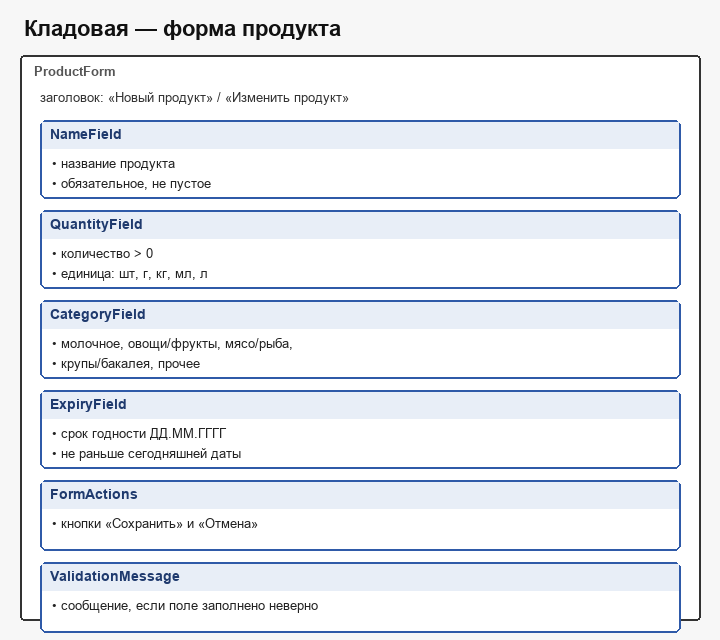
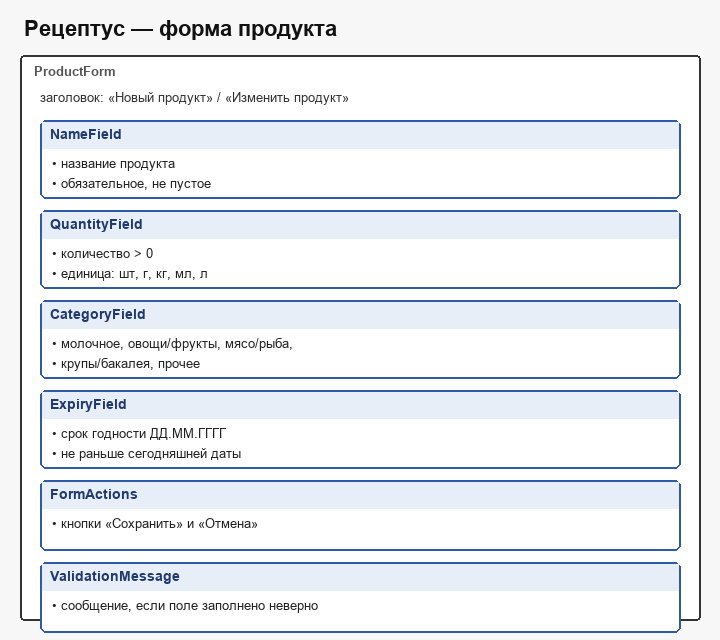
Переименование продукта в «Рецептус»

Changed region(s): [[0.2139, 0.0312, 0.4889, 0.0625], [0.0306, 0.0312, 0.1833, 0.0625]]

diff --git a/srs/srs.md b/srs/srs.md
@@ -1,6 +1,6 @@
 # Спецификация требований к ПО
 
-Для desktop-приложения «Кладовая»
+Для desktop-приложения «Рецептус»
 
 Версия 0.1
 
@@ -67,7 +67,7 @@
 
 ### 1.1 Назначение документа {#11-document-purpose}
 
-Настоящий документ — спецификация требований к программному обеспечению (SRS) desktop-приложения «Кладовая» версии 0.1. Документ фиксирует, **что** система должна делать для учёта продуктов в холодильнике, предложения рецептов из имеющихся продуктов и снижения пищевых отходов. Способ реализации в этом документе не задаётся.
+Настоящий документ — спецификация требований к программному обеспечению (SRS) desktop-приложения «Рецептус» версии 0.1. Документ фиксирует, **что** система должна делать для учёта продуктов в холодильнике, предложения рецептов из имеющихся продуктов и снижения пищевых отходов. Способ реализации в этом документе не задаётся.
 
 Документ используют:
 
@@ -79,7 +79,7 @@
 
 ### 1.2 Область применения продукта {#12-product-scope}
 
-**«Кладовая» 0.1** — локальное desktop-приложение для одного домашнего холодильника. Пользователь записывает продукты с количеством и сроком годности, видит, что скоро испортится, и получает рецепты, которые можно приготовить из уже имеющегося.
+**«Рецептус» 0.1** — локальное desktop-приложение для одного домашнего холодильника. Пользователь записывает продукты с количеством и сроком годности, видит, что скоро испортится, и получает рецепты, которые можно приготовить из уже имеющегося.
 
 В версию 0.1 входит:
 
@@ -138,7 +138,7 @@
 
 ### 2.1 Перспектива продукта {#21-product-perspective}
 
-«Кладовая» — новый самостоятельный продукт, а не модуль существующей системы. Он устанавливается на компьютер пользователя и не обращается к внешним сервисам. Источник данных о запасе — сам пользователь. Каталог рецептов поставляется вместе с приложением и хранится локально.
+«Рецептус» — новый самостоятельный продукт, а не модуль существующей системы. Он устанавливается на компьютер пользователя и не обращается к внешним сервисам. Источник данных о запасе — сам пользователь. Каталог рецептов поставляется вместе с приложением и хранится локально.
 
 Владелец продукта в рамках дисциплины — студент, выполняющий проект. Сопровождение на время курса выполняет автор. Отдельного соглашения об уровне обслуживания с внешней организацией нет: приложение должно открываться на компьютере пользователя без подключения к сети.
 
@@ -205,7 +205,7 @@
 **REQ-INT-001: Главный экран**
 
 * **Title:** Состав главного экрана.
-* **Statement:** Система должна показывать главный экран с блоками: заголовок «Кладовая», сводка по холодильнику, предупреждение о скоропортящихся продуктах, список подходящих рецептов, список продуктов и кнопка «Добавить продукт».
+* **Statement:** Система должна показывать главный экран с блоками: заголовок «Рецептус», сводка по холодильнику, предупреждение о скоропортящихся продуктах, список подходящих рецептов, список продуктов и кнопка «Добавить продукт».
 * **Rationale:** С одного экрана пользователь и ведёт запас, и видит, что готовить, чтобы не выбрасывать еду.
 * **Acceptance Criteria:** На экране одновременно видны все перечисленные блоки. Состав блоков совпадает с `приложения/home-page.sysml` и рисунком `приложения/home-page.png`.
 * **Verification Method:** Demonstration.
@@ -507,7 +507,7 @@
 
 ### 3.6 ИИ/МО {#36-aiml}
 
-Компоненты машинного обучения в «Кладовая» версии 0.1 не входят. Подразделы спецификации модели, управления обучающими данными, ограничителей, этики модели, человеческого подтверждения вывода модели и жизненного цикла модели не применяются. Генерация новых рецептов нейросетью и распознавание продуктов по фото в эту версию не входят. Подбор выполняется детерминированным сопоставлением ингредиентов.
+Компоненты машинного обучения в «Рецептус» версии 0.1 не входят. Подразделы спецификации модели, управления обучающими данными, ограничителей, этики модели, человеческого подтверждения вывода модели и жизненного цикла модели не применяются. Генерация новых рецептов нейросетью и распознавание продуктов по фото в эту версию не входят. Подбор выполняется детерминированным сопоставлением ингредиентов.
 
 ---
 

diff --git a/docs/lab3-report.md b/docs/lab3-report.md
@@ -49,7 +49,7 @@
 
 ### 3.1 Выбор варианта приложения и обоснование технологического стека
 
-Тема, назначенная студенту: агрегатор продуктов — анализ содержимого холодильника и предложение рецептов из имеющихся продуктов с минимизацией пищевых отходов. Продукт назван «Кладовая». Тип проекта — desktop-приложение. Язык реализации — Java, интерфейс предполагается на Swing, сборка — Maven, среда выполнения — Java 17.
+Тема, назначенная студенту: агрегатор продуктов — анализ содержимого холодильника и предложение рецептов из имеющихся продуктов с минимизацией пищевых отходов. Продукт назван «Рецептус». Тип проекта — desktop-приложение. Язык реализации — Java, интерфейс предполагается на Swing, сборка — Maven, среда выполнения — Java 17.
 
 Границы версии 0.1: один холодильник; категории «молочное», «овощи/фрукты», «мясо/рыба», «крупы/бакалея» и «прочее»; учёт названия, количества, единицы и срока годности; список скоропортящихся продуктов; подбор рецептов из локального каталога; приоритет рецептам, использующим скоропортящиеся продукты; хранение данных на компьютере пользователя. Вне границ: несколько холодильников, несколько пользователей, учётная запись, заказ в магазине, оплата, сканер штрихкодов, внешние кулинарные API и машинное обучение.
 
@@ -88,7 +88,7 @@
 
 ### 3.4 Заполнение шаблона спецификации требований
 
-Шаблон `srs/srs-template.md` заполнен и сохранён отдельным файлом `srs/srs.md`, чтобы пустой шаблон остался в репозитории для следующих работ. В документе описаны назначение и границы «Кладовой», глоссарий, пользователи, ограничения, требования с идентификаторами `REQ-[AREA]-[NNN]`, матрица проверки и ссылки на диаграммы.
+Шаблон `srs/srs-template.md` заполнен и сохранён отдельным файлом `srs/srs.md`, чтобы пустой шаблон остался в репозитории для следующих работ. В документе описаны назначение и границы «Рецептуса», глоссарий, пользователи, ограничения, требования с идентификаторами `REQ-[AREA]-[NNN]`, матрица проверки и ссылки на диаграммы.
 
 Обязательные требования сформулированы со словом «должна». Пример: система подбирает только те рецепты, для которых хватает ингредиентов; при отсутствии подходящих показывает «недостаточно продуктов для рецептов» и не оставляет пустой список без пояснения.
 
@@ -110,15 +110,15 @@
 
 ## ЗАКЛЮЧЕНИЕ
 
-В ходе работы по теме «агрегатор продуктов» собран набор бизнес-требований к desktop-приложению «Кладовая». Потребность заказчика переведена в проверяемые требования: учёт продуктов холодильника, контроль сроков, подбор рецептов из имеющегося и снижение пищевых отходов. Экраны описаны на SysML v2 и сохранены в PNG. Спецификация записана в `srs/srs.md` и отправлена в ветку `lab3`.
+В ходе работы по теме «агрегатор продуктов» собран набор бизнес-требований к desktop-приложению «Рецептус». Потребность заказчика переведена в проверяемые требования: учёт продуктов холодильника, контроль сроков, подбор рецептов из имеющегося и снижение пищевых отходов. Экраны описаны на SysML v2 и сохранены в PNG. Спецификация записана в `srs/srs.md` и отправлена в ветку `lab3`.
 
 ## ПРИЛОЖЕНИЕ А
 Текст модели главного экрана (`приложения/home-page.sysml`)
 
 ```sysml
-package Kladovaya_Home {
+package Receptus_Home {
     part def HomePage {
-        attribute title = "Кладовая";
+        attribute title = "Рецептус";
         part header : Header;
         part fridgeSummary : FridgeSummary;
         part wasteAlert : WasteAlert;
@@ -127,7 +127,7 @@ package Kladovaya_Home {
         part addButton : AddProductButton;
     }
     part def Header {
-        attribute logo = "Кладовая";
+        attribute logo = "Рецептус";
     }
     part def FridgeSummary {
         attribute productCount = "Число продуктов в холодильнике";
@@ -155,7 +155,7 @@ package Kladovaya_Home {
 Текст модели формы продукта (`приложения/product-form.sysml`)
 
 ```sysml
-package Kladovaya_ProductForm {
+package Receptus_ProductForm {
     part def ProductForm {
         attribute title = "Новый продукт";
         part name : NameField;

diff --git a/docs/lab3-defense-customer-questions.md b/docs/lab3-defense-customer-questions.md
@@ -1,4 +1,4 @@
-# Вопросы Артема (заказчик) к системе Кристины «Кладовая»
+# Вопросы Артема (заказчик) к системе Кристины «Рецептус»
 
 На защите преподаватель спросит у **Артема**, какие требования он предъявил к системе Кристины.  
 Артем играет роль заказчика: он должен уметь **обосновать каждое требование вопросом «зачем?»**.
